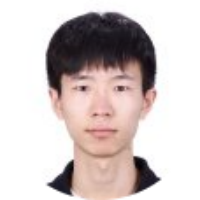
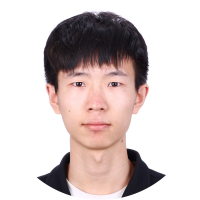
Added Bohan abstract and updated photo

diff --git a/prato2023/bohanzhang.md b/prato2023/bohanzhang.md
@@ -1,21 +1,18 @@
 ---
-title: "TBD"
+title: "Discrete Forecast Reconciliation"
 ---
 
 ## Presenter
 
 <div class = "figure">
-[Bohan Zhang](https://scholar.google.com/citations?user=Blxza88AAAAJ), Beihang University, China
+[Bohan Zhang](https://github.com/AngelPone), Beihang University, China
 <img src="/img/bohan.png"  width=200px height=200px style="float:left">
 </div>
 
 ## Abstract
 
-TBD
+While forecast reconciliation has seen great success for real valued data, the method has not yet been comprehensively extended to the discrete case. This paper defines and develops a formal discrete forecast reconciliation framework based on optimising scoring rules using quadratic programming. The proposed framework produces coherent joint probabilistic forecasts for count hierarchical time series. Two discrete reconciliation algorithms are proposed and compared to generalisations of the top-down and bottom-up approaches to count data. Two simulation experiments and two empirical examples are conducted to validate that the proposed reconciliation algorithms improve forecast accuracy. The empirical applications are to forecast criminal offences in Washington D.C. and the exceedance of thresholds in agespecific mortality rates in Australia. Compared to the top-down and bottom-up approaches, the proposed framework shows superior performance in both simulations and empirical studies.
 
 ## Discussant
 
-<div class = "figure">
-[Christoph Bergmeir](https://cbergmeir.com), University of Granada, Spain
-<img src=/img/christoph.png  width=200px height=200px style="float:left">
-</div>
+TBD
